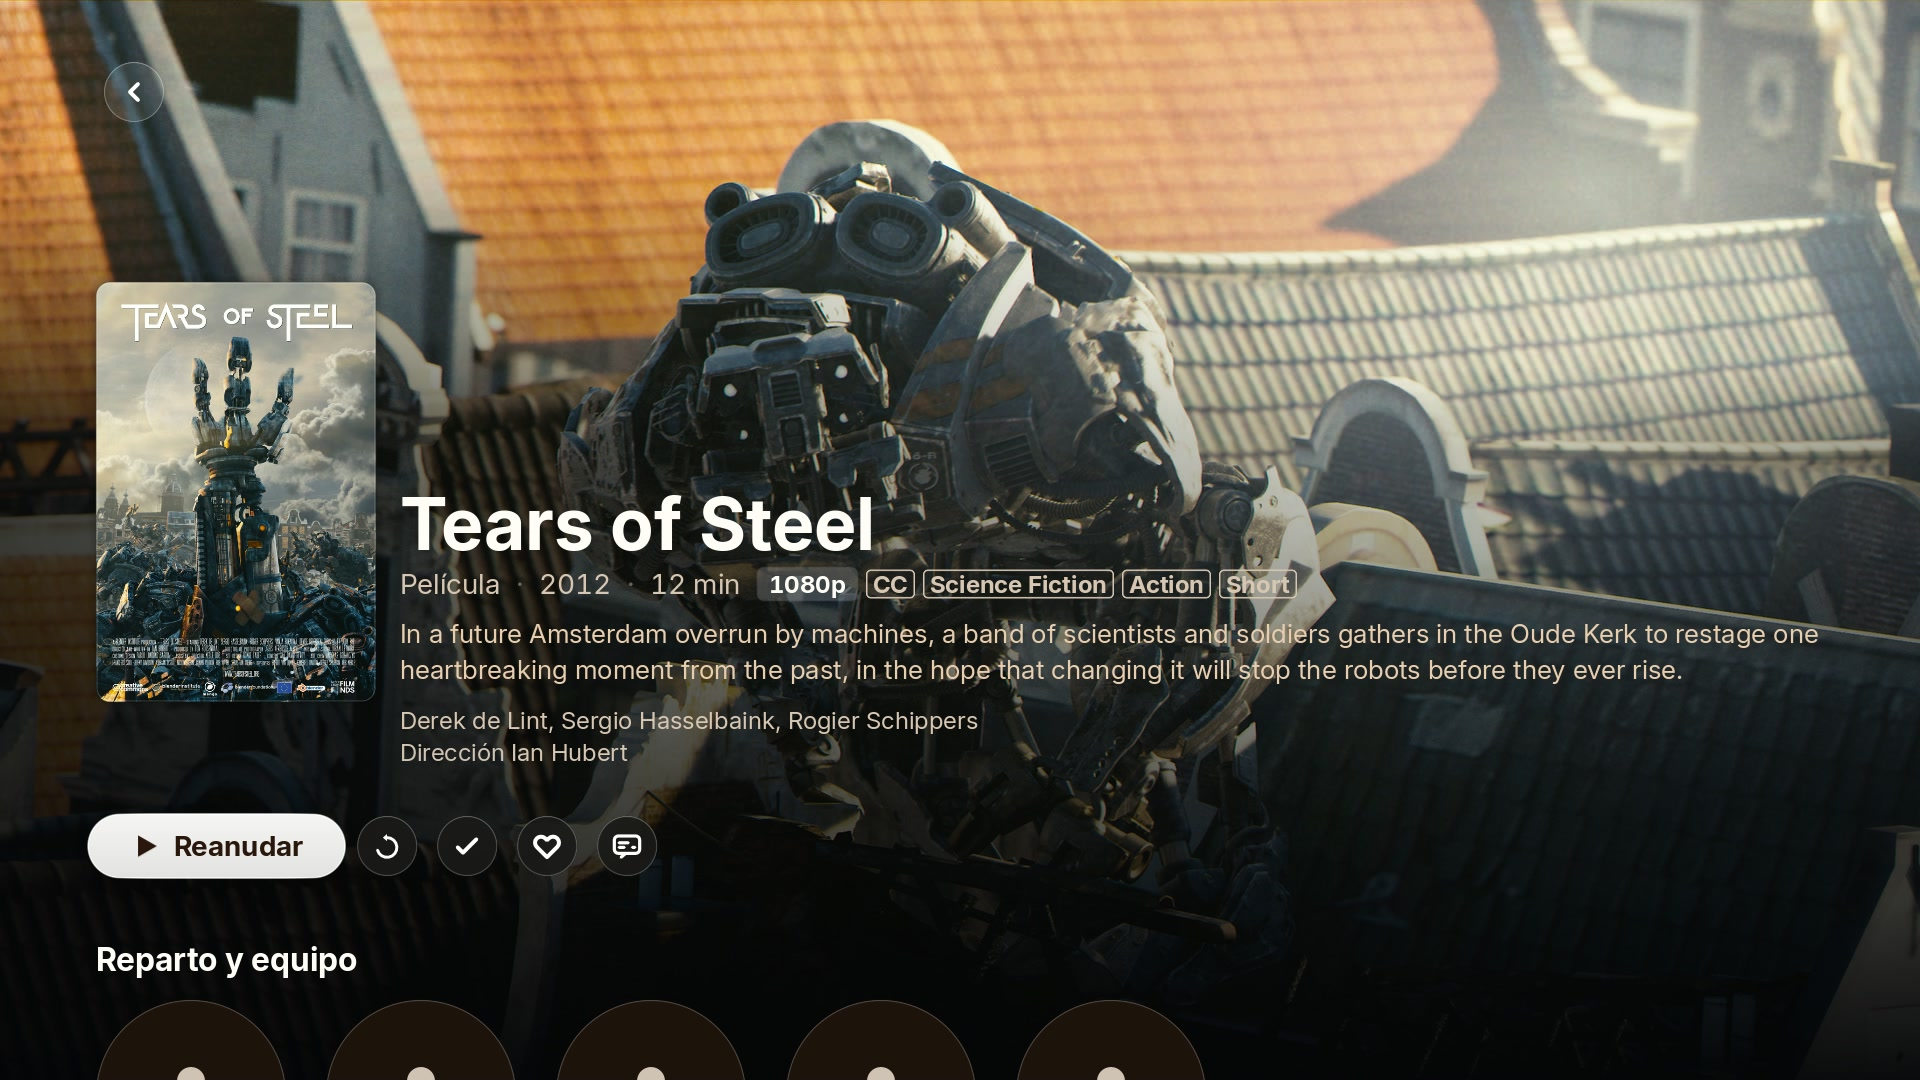
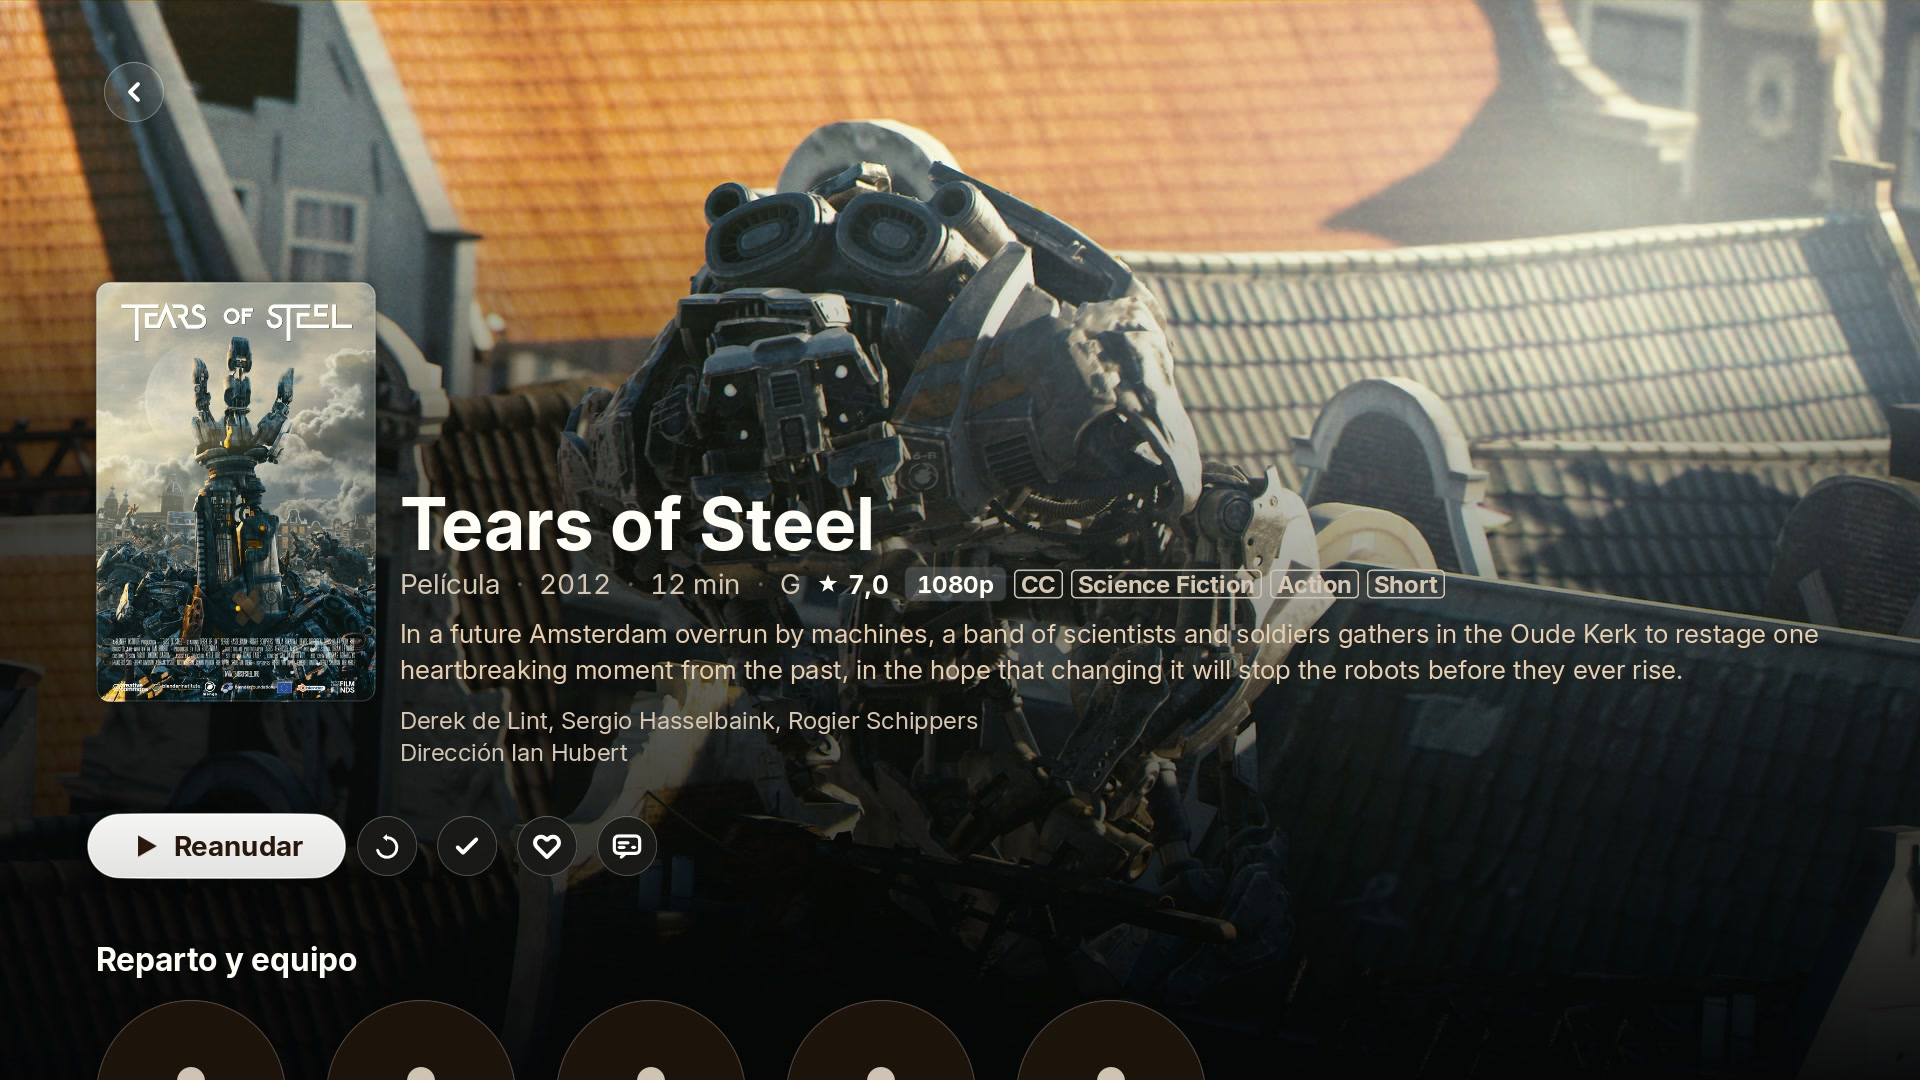
Give the demo library an age rating and a score to state

Changed region(s): [[0.375, 0.5194, 0.75, 0.5806]]

diff --git a/tests/mock_jf.py b/tests/mock_jf.py
@@ -718,6 +718,11 @@ class CatalogLibrary(Library):
             "MediaType": "Video",
             "IsFolder": False,
             "UserData": self._user_data(),
+            # The two numbers a film's hero states: an age rating and the audience score. Derived
+            # from the id, so a capture shows the same ones twice and no catalog entry has to be
+            # hand-edited to have a star.
+            "OfficialRating": OFFICIAL_RATINGS[int(item_id, 16) % len(OFFICIAL_RATINGS)],
+            "CommunityRating": round(5.0 + (int(item_id, 16) % 45) / 10.0, 1),
         }
         if "originallyAvailableAt" in rec:
             item["PremiereDate"] = iso_date(rec["originallyAvailableAt"])
